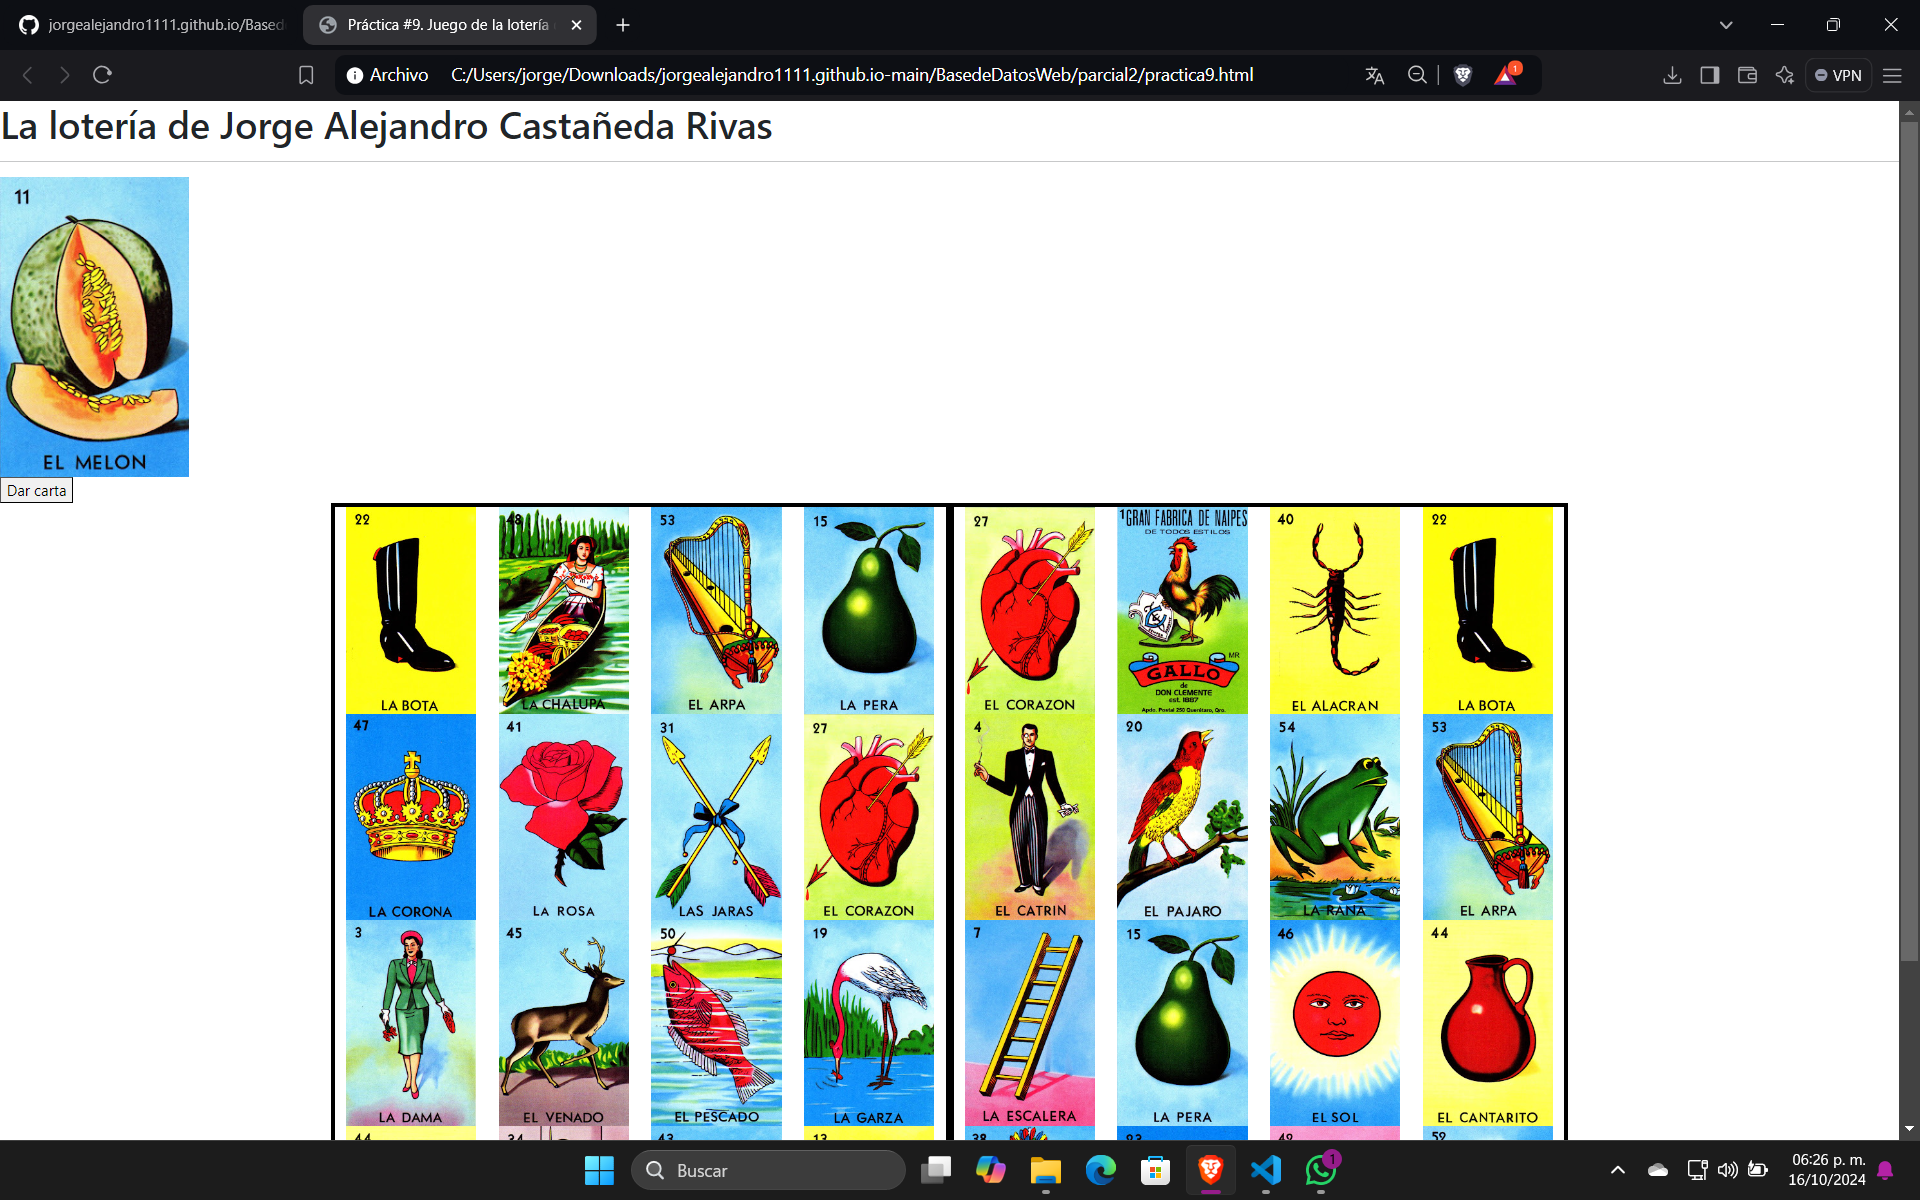
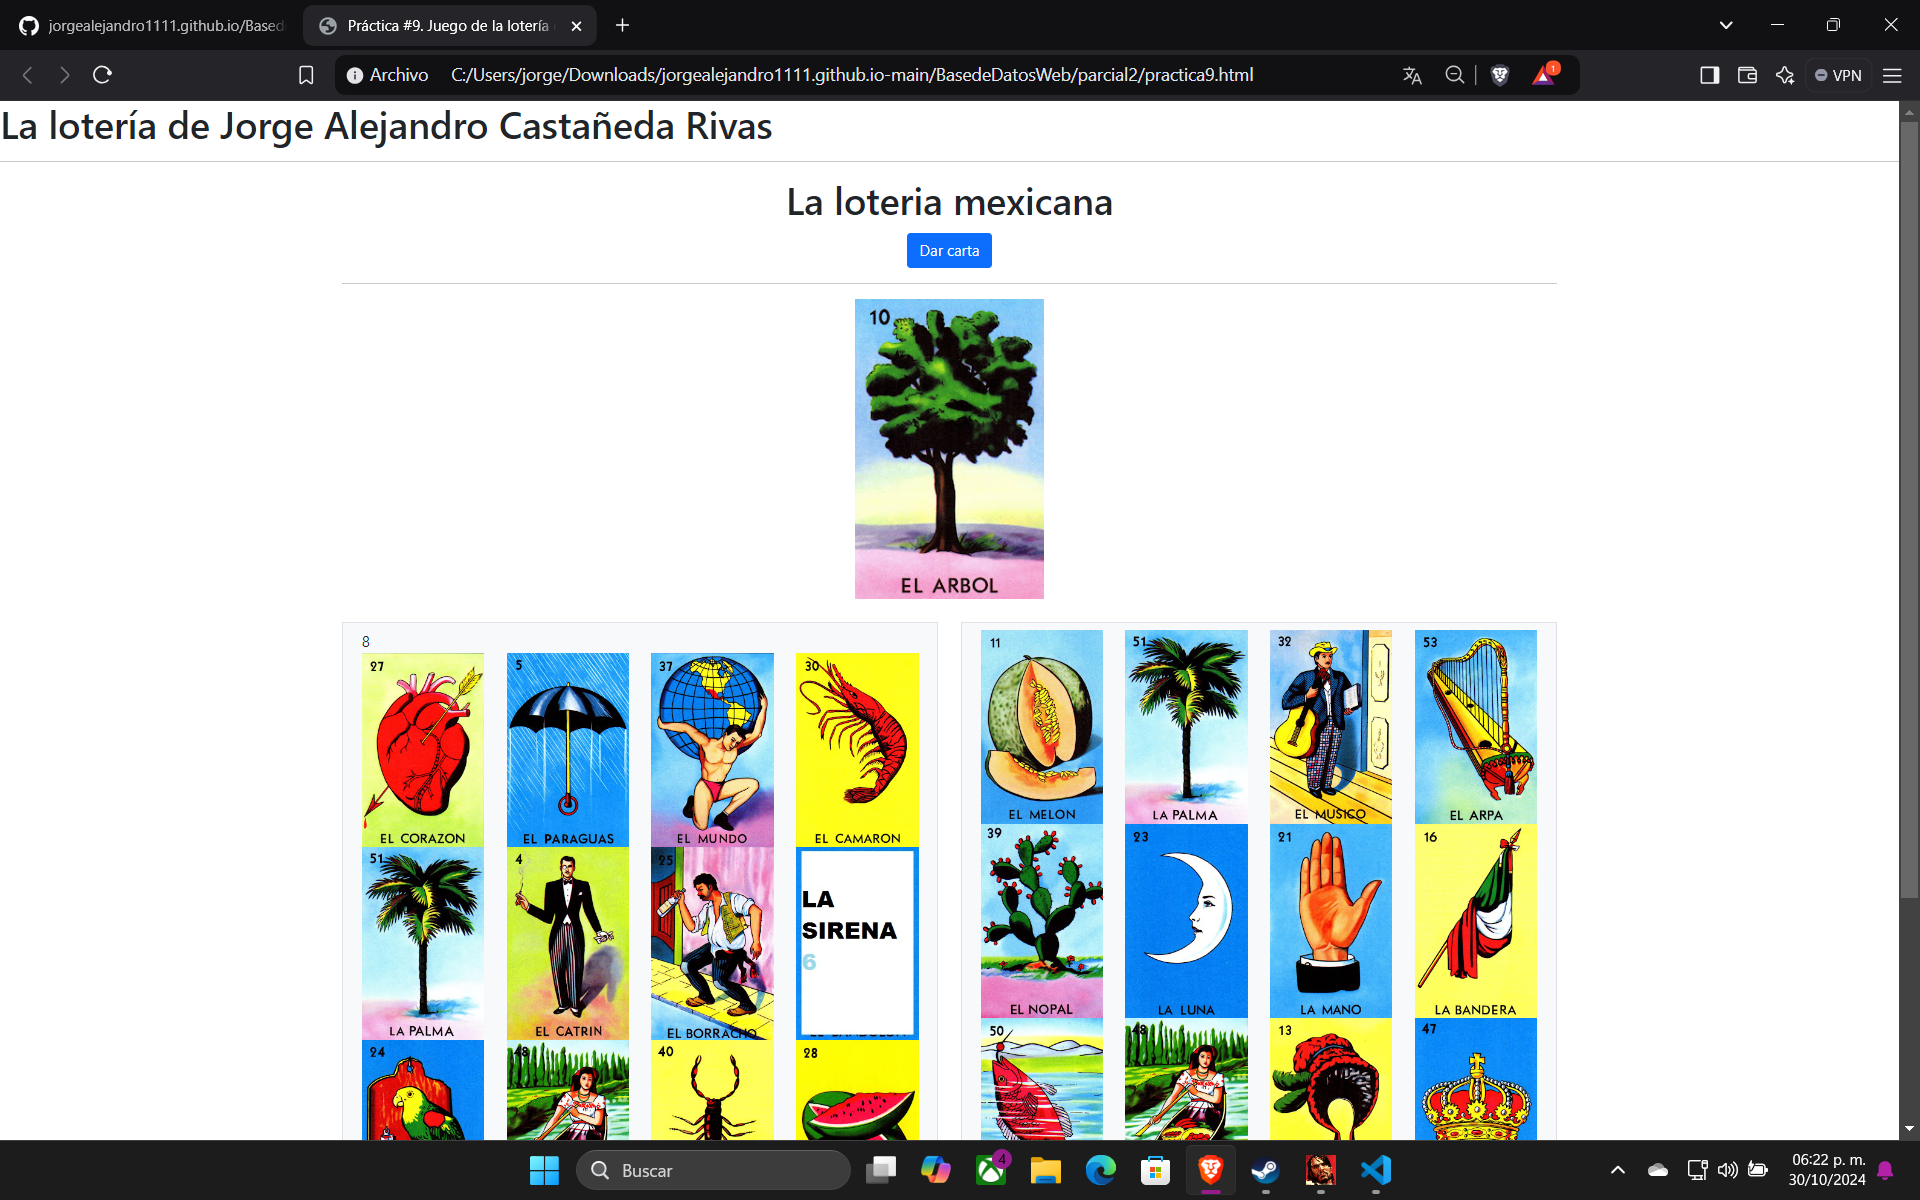
Última modificación de la práctica #9 (creo)

diff --git a/BasedeDatosWeb/parcial2/practica9.html b/BasedeDatosWeb/parcial2/practica9.html
@@ -11,25 +11,29 @@
 <body>
     <h1>La lotería de Jorge Alejandro Castañeda Rivas</h1><hr>
 
-    <div id="carta_activa"></div>
-
-    <button id="dar_carta">Dar carta</button>
-
     <div class="container">
-        <div class="row">
-            <div class="col-sm-6" class="card" >
-                <div class="row" id="carta1" style="border: 5px solid black;">
+
+        <h1 class="text-center">La loteria mexicana <br><button id="dar_carta" class="btn btn-primary">Dar carta</button></h1><hr>
+        <div id="carta_activa" class="text-center"></div><br>
+    </div>
+
+    <div class="container px-4">
+        <div class="row gx-5">
+            <div class="col">
+                <div class="p-2 border bg-light row" id="carta1">
+                    <span id="n_carta">8</span>
 
                 </div>
 
             </div>
-            <div class="col-sm-6" class="card">
-                <div class="row" id="carta2" style="border: 5px solid black;">
+            <div class="col">
+                <div class="p-2 border bg-light row" id="carta2">
 
                 </div>
 
             </div>
         </div>
+
     </div>
     
     

diff --git a/BasedeDatosWeb/parcial2/practica9.js b/BasedeDatosWeb/parcial2/practica9.js
@@ -1,12 +1,13 @@
 $(document).ready(function(){
     let cartas =new Array(54).fill(false);
-
+    var cont = 0;
+    var n_carta =0;
     //funcion click del boton dar carta :v
     $("#dar_carta").click(function(){
 
         var b = true;
 
-        var cont = 0;
+ 
         while(b){
             var num = Math.floor(Math.random()*54) + 1;
             console.log("Numero de carta="+num);
